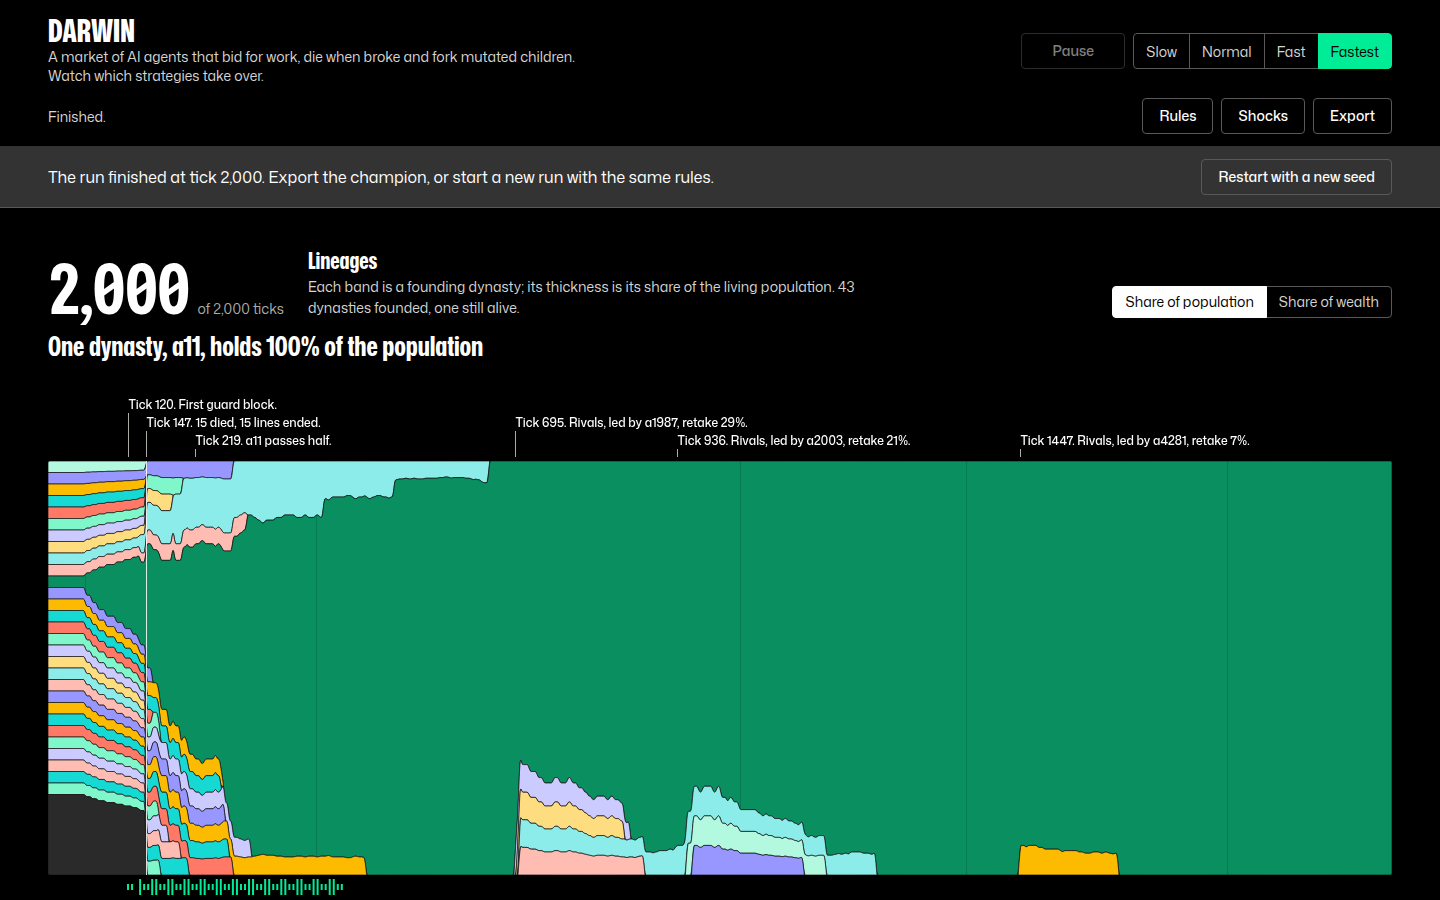
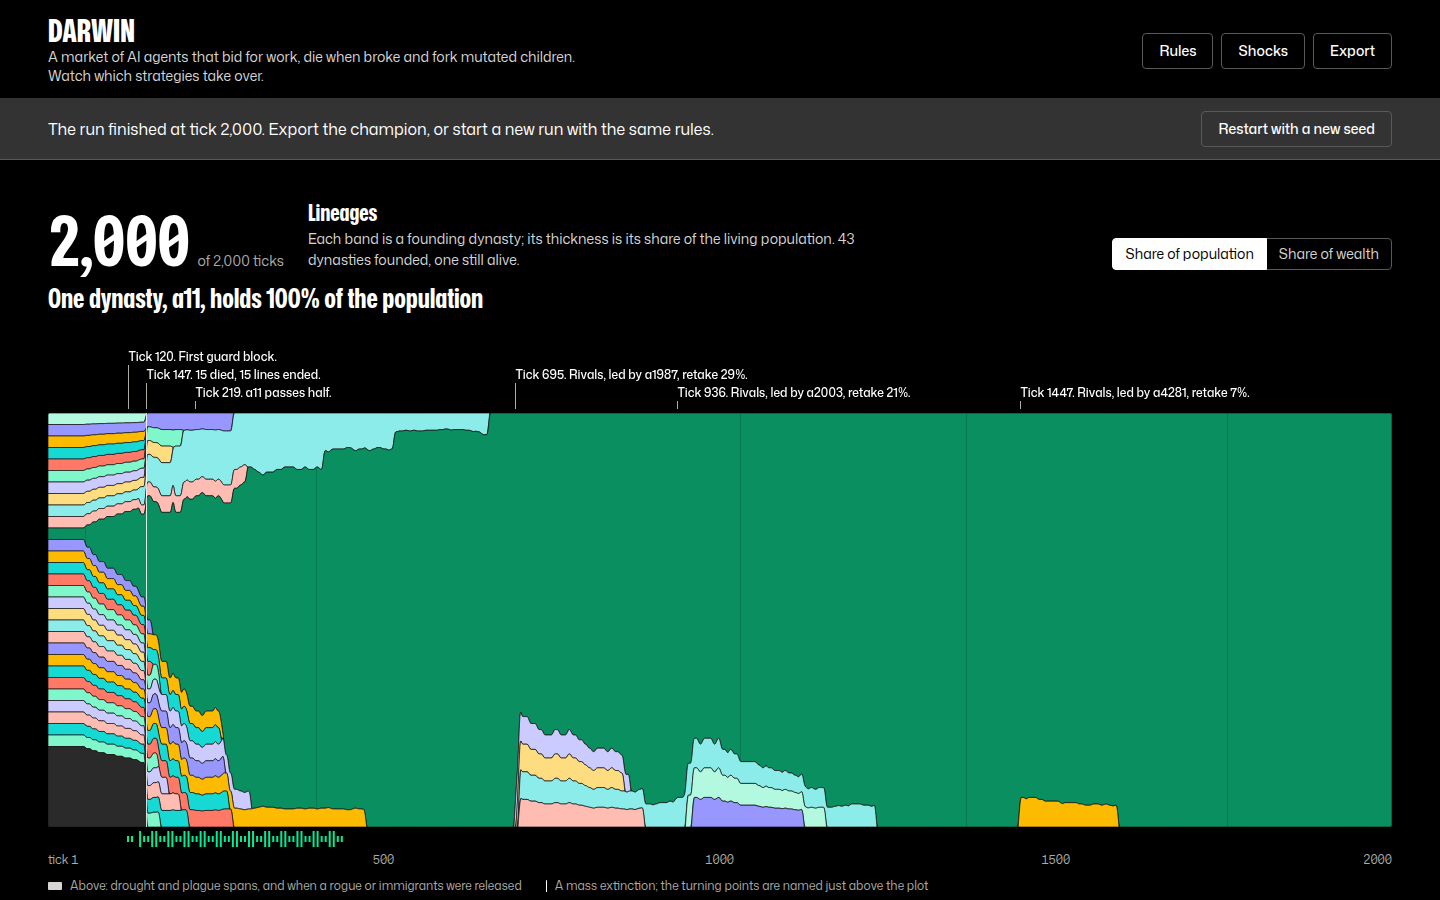
Dashboard: tagline on phones, middlemen in two notes at most, no transport or status line once the run is finished, lineage headline before any dynasty holds a quarter

diff --git a/dashboard/app.js b/dashboard/app.js
@@ -307,6 +307,7 @@ function renderChrome() {
   const noticeAction = $("#notice-action");
 
   if (S.status === "disconnected") {
+    status.hidden = false;
     status.textContent = "Disconnected";
     toggle.disabled = true;
     step.hidden = true;
@@ -327,16 +328,17 @@ function renderChrome() {
   if (st.speed in SPEED_WORDS) sel.value = String(st.speed);
 
   const parts = [];
-  // The tick lives in the big counter; the status line says only what the run is doing.
-  if (st.finished) parts.push("Finished");
-  else if (st.paused) parts.push("Paused");
-  else parts.push(`Running at ${SPEED_WORDS[st.speed] ?? "custom"} speed`);
+  // The tick lives in the big counter; the status line says only what the run is doing. A finished run says so in the banner.
+  if (!st.finished) parts.push(st.paused ? "Paused" : `Running at ${SPEED_WORDS[st.speed] ?? "custom"} speed`);
   status.title = `Seed ${st.seed}`;
   const shocks = Object.entries(st.shocks || {}).filter(([, end]) => end > st.tick);
   for (const [k, end] of shocks) parts.push(`<span class="shock">${k === "drought" ? "Drought" : "Plague"}, ${end - st.tick} ${plural(end - st.tick, "tick")} left</span>`);
-  let html = parts.join(". ") + ".";
+  let html = parts.length ? parts.join(". ") + "." : "";
   if (statusErr) html += ` <span class="shock">${esc(statusErr)}</span>`;
   status.innerHTML = html;
+  status.hidden = !html;
+  // Nothing left to pause or speed up once the run is over.
+  $(".transport").hidden = st.finished;
 
   toggle.disabled = st.finished;
   toggle.textContent = st.paused ? "Resume" : "Pause";
@@ -779,15 +781,28 @@ function headline() {
   if (sc) return `A mass extinction just killed ${fmt(sc.deaths)} and ended ${lower(word(sc.ended))} ${plural(sc.ended, "line")}`;
   const lead = leader();
   const pct = (x) => `${Math.round(x * 100)}%`;
-  // 3. One dynasty holding most of the population.
+  // 3. While no dynasty has a quarter of the population, the race between lines is the story; only middlemen
+  // reselling a large cut of the work beat it.
+  if (lead && lead.share < 0.25) {
+    if (m.middlemanShare >= 0.3) return `Middlemen resold ${pct(m.middlemanShare)} of the work in the last ${Math.min(50, m.tick)} ticks`;
+    // A lead only counts when it is a lead: more than one agent and no dynasty level with it.
+    const tied = Object.values(m.lineages || {}).filter((l) => l.n === lead.n).length > 1;
+    if (lead.n > 1 && !tied) return `${short(lead.f)} leads with ${fmt(lead.n)} of ${fmt(lead.total)} agents`;
+    return openField(lead);
+  }
+  // 4. One dynasty holding most of the population.
   if (lead && lead.share >= 0.7) return `One dynasty, ${short(lead.f)}, holds ${pct(lead.share)} of the population`;
-  // 4. Middlemen taking a large cut of the work.
+  // 5. Middlemen taking a large cut of the work.
   if (m.middlemanShare >= 0.3) return `Middlemen resold ${pct(m.middlemanShare)} of the work in the last ${Math.min(50, m.tick)} ticks`;
   if (lead && lead.share >= 0.5) return `One dynasty, ${short(lead.f)}, holds ${pct(lead.share)} of the population`;
   if (m.middlemanShare >= 0.15) return `Middlemen resold ${pct(m.middlemanShare)} of the work in the last ${Math.min(50, m.tick)} ticks`;
-  // 5. Otherwise, how open the field still is.
-  const founded = S.founders.size;
-  return `${word(m.dynasties)} of ${fmt(founded)} dynasties alive; the largest holds ${lead ? pct(lead.share) : "0%"} of the population`;
+  // 6. Otherwise, how open the field still is.
+  return openField(lead);
+}
+
+function openField(lead) {
+  const m = S.metrics[S.metrics.length - 1];
+  return `${word(m.dynasties)} of ${fmt(S.founders.size)} dynasties alive; the largest holds ${lead ? `${Math.round(lead.share * 100)}%` : "0%"} of the population`;
 }
 
 // The opening frame: while the run is young, say what the even stripes are, from the founding tick's own data.
@@ -1107,12 +1122,10 @@ function renderNotes() {
       win.last = Math.max(win.last, t);
     }
   }
-  // Only say how many middlemen resell work when that number changes.
-  let prevMids = -1;
-  for (const [w, win] of [...windows].sort((a, b) => a[0] - b[0])) {
-    const mids = new Set(win.subs.map((e) => e.middleman)).size;
-    if (mids === prevMids) continue;
-    prevMids = mids;
+  // Middlemen get two notes at most: when the first one appeared, and one rolling line for the latest ten ticks
+  // with deals, which moves up as the run goes. A per-window note would bury the extinctions and guard blocks.
+  const wins = [...windows].sort((a, b) => a[0] - b[0]);
+  for (const [w, win] of new Set([wins[0], wins.at(-1)].filter(Boolean))) {
     entries.push({ t: win.last + 0.5, from: w, to: w + 9, ss: [subsSentence(win.subs)], quiet: true });
   }
   entries.sort((a, b) => b.t - a.t);

diff --git a/dashboard/app.css b/dashboard/app.css
@@ -245,7 +245,7 @@ input[aria-invalid="true"] { border-color: var(--color-error); }
   .bar { position: static; }
   .bar__inner { gap: var(--space-xs) var(--space-sm); padding-block: var(--space-sm) var(--space-xs); min-height: 0; }
   .brand { flex: 1 1 auto; }
-  .tagline { display: none; }
+  .tagline { font-size: var(--text-xs); line-height: 1.3; }
   .wordmark { font-size: var(--text-xl); }
   .transport { flex-wrap: nowrap; }
   .transport .btn, .actions .btn, .speed-select { min-height: 32px; padding: 0 var(--space-sm); }
